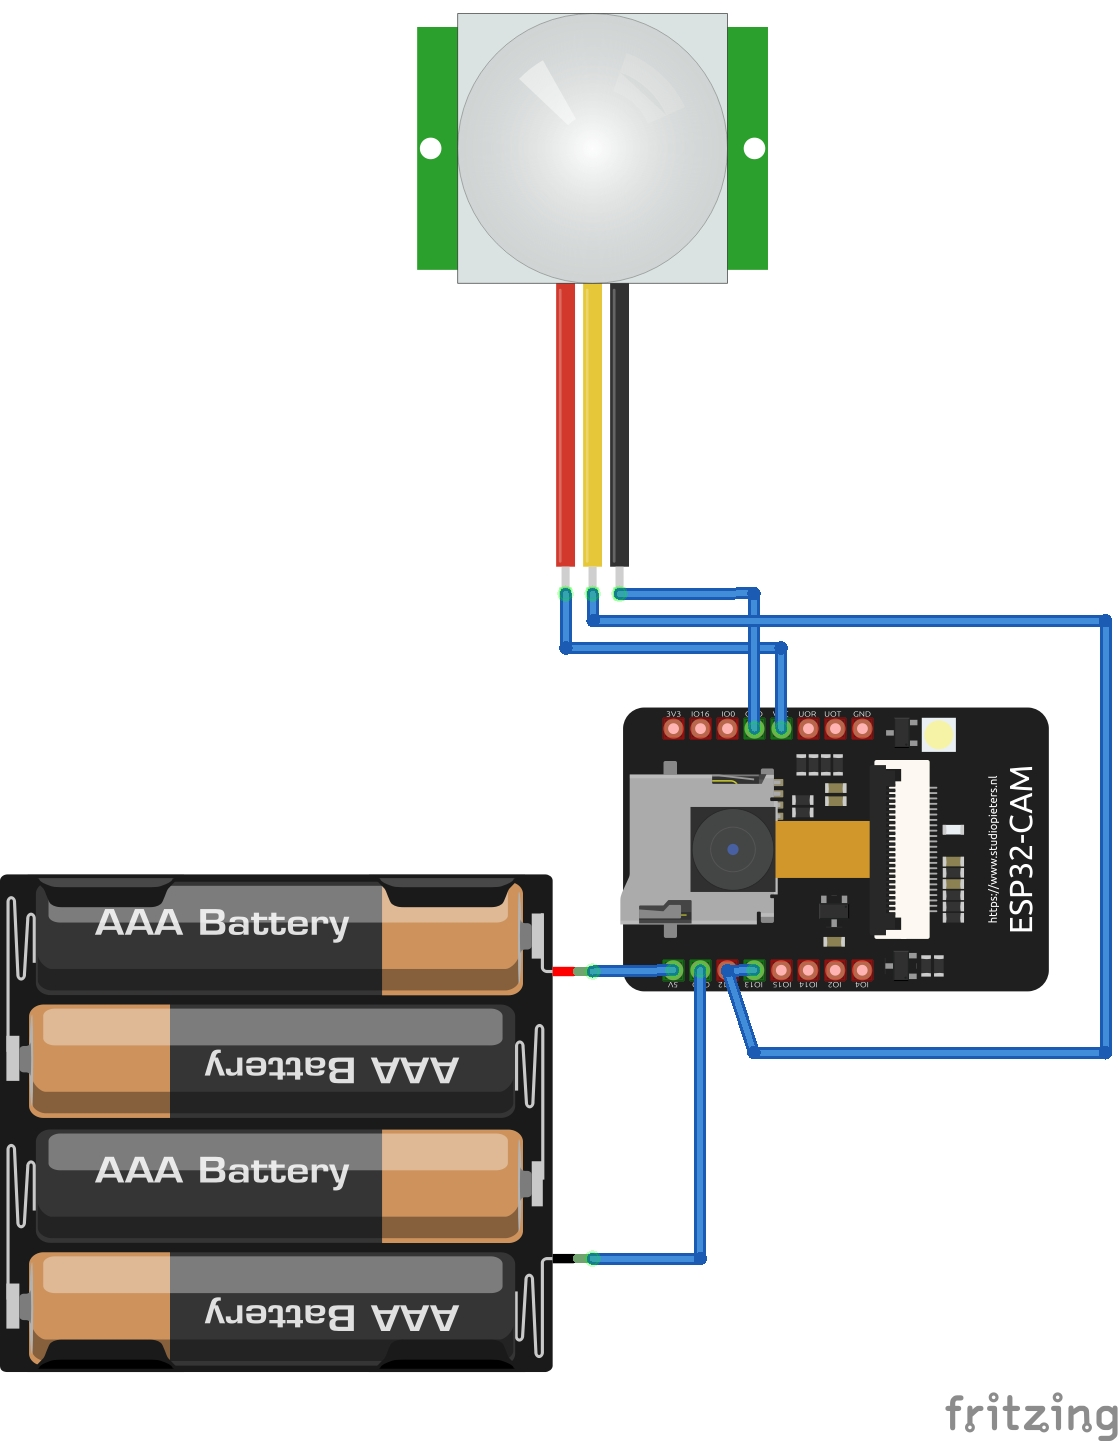
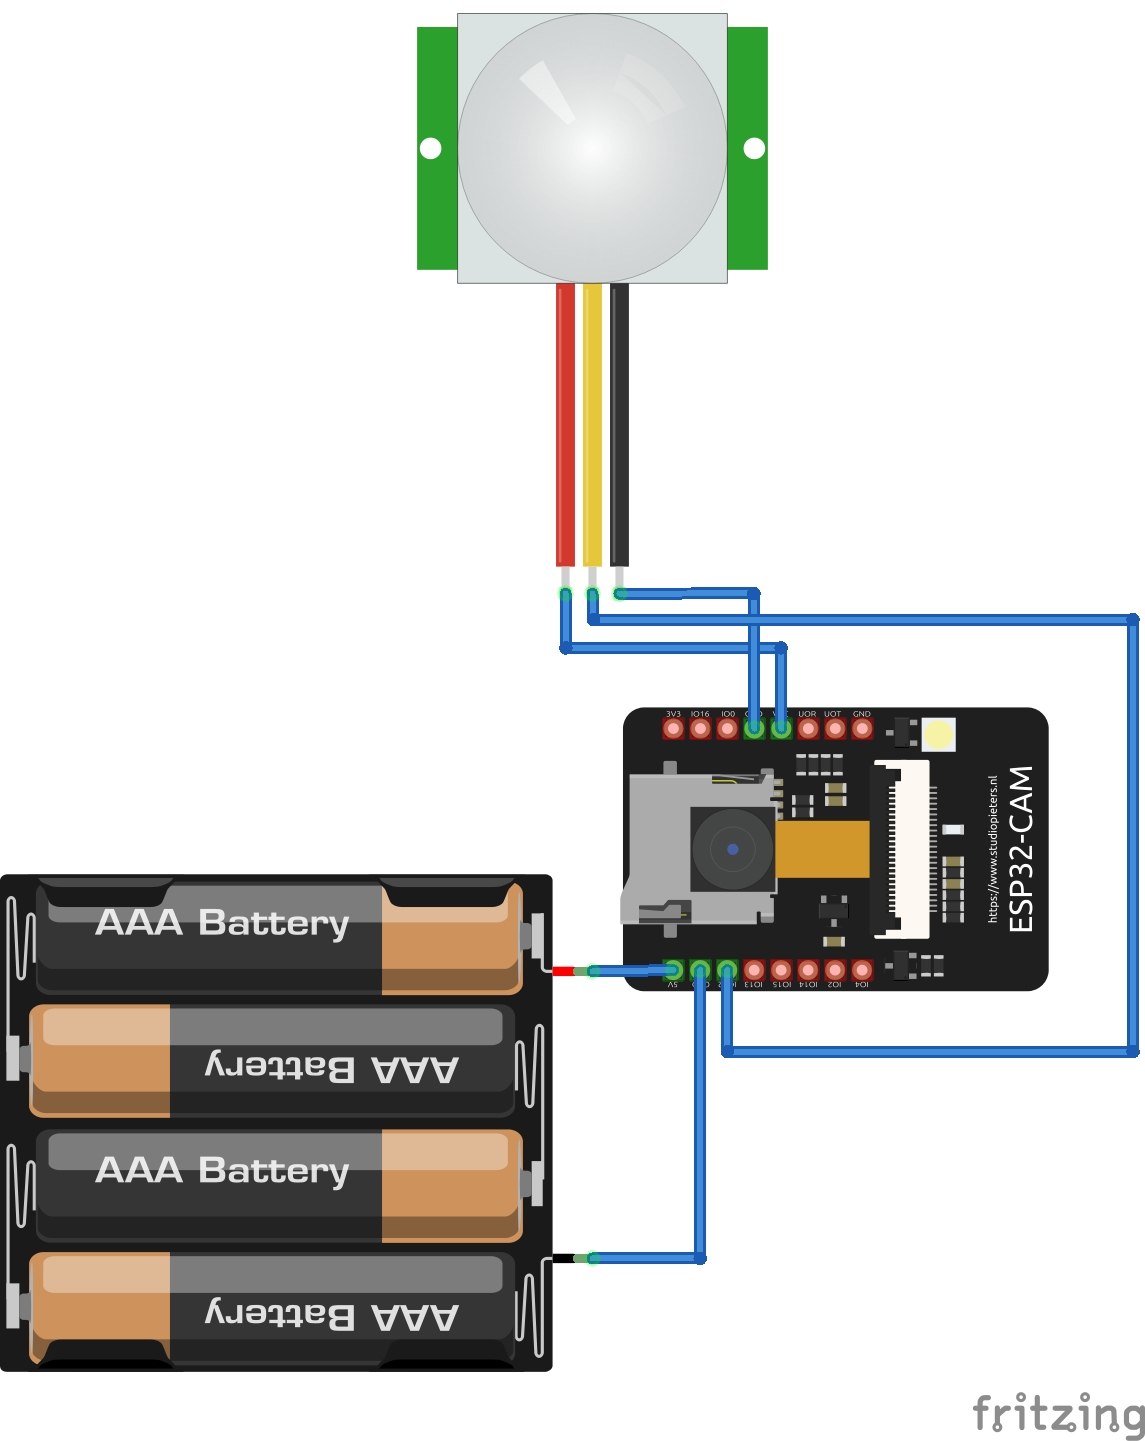
Updates to improve Readme

diff --git a/README.md b/README.md
@@ -27,6 +27,23 @@ Once the device is physically deployed and armed via the web interface:
 ## Why Deep Sleep?
 Trail cameras are typically deployed outdoors and rely completely on battery power for weeks or months at a time. If the processor and camera were running continuously, the batteries would die in a matter of hours. By utilizing **deep sleep**, the microcontroller shuts down non-essential internal clocks and peripherals (like the camera and SD card reader), dropping its power draw to mere microamps. It only consumes significant power for the brief moments it is awake to take a picture, massively extending the battery life of the device.
 
+## Power-On Behavior & Setup Entry
+When the camera is cold-booted (power switch turned ON):
+1. **Initial Boot Latency (7–10 seconds of silence):** Upon powering on, **the camera will appear completely dead for 7 to 10 seconds** (no LED activity). This is because the PIR sensor requires time to stabilize, during which it holds its output HIGH and pulls **GPIO 12** (the ESP32's flash voltage strapping pin) HIGH. This forces the ESP32 into a silent temporary boot loop. Once the PIR warms up and goes LOW, the ESP32 boots normally. This 7-10 second silent pause is completely normal.
+2. **Setup Mode Entry Window (1 second of lit LED):** Immediately after the 7-10 second silent pause, the Flash LED will turn on dimly for **exactly 1 second**. 
+   * **To enter Setup Mode (Wi-Fi AP):** You must turn the power switch **OFF while this LED is active (lit)**, and then turn it back ON. On the next boot, the camera will enter Setup Mode and broadcast `TrailCam_Setup`.
+   * **To stay in Monitoring Mode:** Do nothing. After the 1-second window, the LED turns off, the camera waits for the PIR sensor to settle, and then enters low-power deep sleep.
+
+## Blink Codes (White Flash LED)
+The camera uses the built-in white Flash LED (configured at a very dim brightness to protect your eyes) to indicate its status:
+* **1 blink:** Heartbeat logged (hourly timer wake, appends to `heartbeat.txt`).
+* **2 blinks:** Photo successfully captured and saved to the SD card.
+* **3 blinks:** Motion detected (PIR wakeup trigger).
+* **4 blinks:** SD Card mount/save failure.
+* **5 blinks:** Webserver setup mode starting (SSID `TrailCam_Setup`).
+* **10 fast blinks:** Camera initialization error.
+* **1-second solid dim pulse:** Device is entering deep sleep mode.
+
 ## Wiring & Pinouts
 Wire up the components as detailed below, then compile and upload the software using the Arduino IDE. 
 